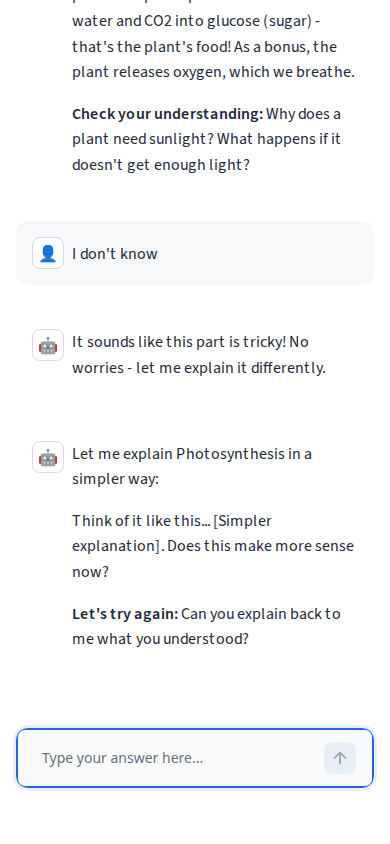
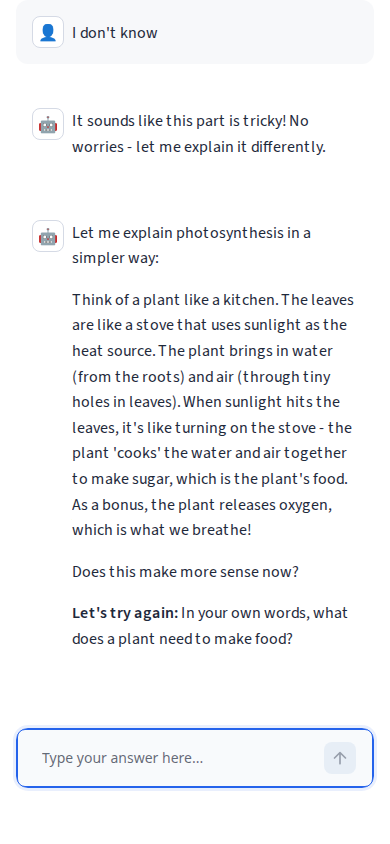
Small fixes round: Remove placeholders, fix markdown, update subtitle
Fixes:
1. Demo mode no longer shows placeholder text like '[Simpler explanation]'
   - Added real scripted simpler explanations for Photosynthesis, Python, Algebra
   - Improved generic fallback for custom topics (no placeholders)
   - Added test_demo_no_placeholder_brackets to validate no '[' in responses

2. Session summary now renders markdown properly
   - Fixed rendering of '**What you learned:**' (was showing asterisks)
   - Summary text now uses st.markdown for proper formatting

3. Subtitle no longer claims AI in demo mode
   - Demo mode: 'Learn step-by-step with a study tutor (demo)'
   - Real AI mode: 'Learn step-by-step with an AI study tutor'

4. Re-captured screenshots after fixes
   - Desktop topic picker shows corrected subtitle
   - Mobile mid-lesson shows real explanation (no placeholders)
   - Mobile summary shows proper markdown rendering
   - All 4 screenshots have unique MD5 hashes

Test results: 71 total, 67 passed, 4 skipped, 0 failed
New test: test_demo_no_placeholder_brackets passes
MD5 hashes updated in report

diff --git a/tutor/tutor_ai.py b/tutor/tutor_ai.py
@@ -78,6 +78,11 @@ class TutorAI:
                 "Beginner": "Python is a programming language that lets you give instructions to a computer! 🐍💻\n\nImagine you're teaching a robot to make a sandwich. You can't just say 'make a sandwich' - you need to break it down: 'pick up bread', 'spread peanut butter', 'add jelly', etc. That's what programming is! Python is a popular language because its instructions look almost like English, making it easier to learn.\n\nHere's your first Python code:\n```python\nprint('Hello World!')\n```\nThis tells the computer to display the text 'Hello World!' on the screen.\n\n**Check your understanding:** What do you think this code does?\n```python\nprint('My name is Alex')\n```",
                 "Intermediate": "Python is a high-level, interpreted programming language emphasizing code readability and simplicity.\n\nKey features include dynamic typing, automatic memory management, and extensive standard libraries. Python uses indentation for code blocks rather than braces, making structure visually clear. The language supports multiple programming paradigms: procedural, object-oriented, and functional.\n\nExample of list comprehension:\n```python\nsquares = [x**2 for x in range(10)]\n```\n\n**Check your understanding:** Why is Python called 'interpreted' rather than 'compiled', and how does this affect execution speed?",
                 "Advanced": "Python implements a reference-counted garbage collection system with cycle detection, operating on CPython's bytecode VM architecture. The Global Interpreter Lock (GIL) serializes thread execution, limiting true parallelism but simplifying memory management.\n\nThe descriptor protocol enables powerful metaprogramming:\n```python\nclass LazyProperty:\n    def __get__(self, obj, objtype=None):\n        if obj is None:\n            return self\n        return obj.__dict__.setdefault(self.func.__name__, self.func(obj))\n```\n\n**Check your understanding:** How does the descriptor protocol enable Python's @property decorator, and why is __get__ called on attribute access?"
+            },
+            "algebra": {
+                "Beginner": "Algebra is a branch of mathematics where we use letters to represent numbers we don't know yet! 📐\n\nThink of algebra like a detective game. Someone tells you a clue: 'I'm thinking of a number. If you add 5 to it, you get 12. What's my number?' In algebra, we write this as: x + 5 = 12. The 'x' is our mystery number. By solving the puzzle (subtracting 5 from both sides), we find that x = 7!\n\nAlgebra is super useful because it helps us solve real problems. Want to figure out how much money you'll have after saving for 3 months? Algebra can help! Need to calculate how much pizza to order for a party? Algebra again!\n\n**Check your understanding:** If x + 3 = 10, what do you think x equals? How did you figure it out?",
+                "Intermediate": "Algebra is the study of mathematical symbols and rules for manipulating these symbols. It's a powerful tool for modeling and solving real-world problems.\n\nKey concepts include variables (symbols representing unknown or changing values), expressions (combinations of variables and constants), equations (statements that two expressions are equal), and functions (relationships between inputs and outputs).\n\nFor example, the equation of a line y = mx + b uses variables: 'm' is the slope and 'b' is the y-intercept. This single equation can describe infinitely many different lines depending on the values of m and b.\n\n**Check your understanding:** In the equation 2x + 3 = 11, what steps would you take to solve for x?",
+                "Advanced": "Algebra extends beyond elementary equation solving to encompass abstract algebraic structures: groups, rings, fields, vector spaces, and their morphisms. These structures satisfy specific axioms that enable generalized reasoning about mathematical operations.\n\nConsider a group (G, ∗) where ∗ is a binary operation satisfying closure, associativity, identity, and invertibility. The integers under addition form a group, as do non-zero reals under multiplication. This abstraction reveals deep structural similarities across seemingly disparate mathematical domains.\n\n**Check your understanding:** Why is the set of natural numbers under subtraction NOT a group, and which group axiom fails?"
             }
         }
         
@@ -98,7 +103,13 @@ class TutorAI:
         if topic_key:
             return explanations[topic_key][level]
         else:
-            return default[level]
+            # Improved default without placeholders
+            default_no_placeholders = {
+                "Beginner": f"Let's learn about {session.topic}! This is an exciting topic, and I'll help you understand it step by step.\n\nTo start with the basics: {session.topic} is a concept that appears in many areas. It's something you can learn and understand, even if it seems complex at first. The key is to break it down into smaller pieces and tackle them one at a time.\n\nThink about what you already know that might be related to this topic. Building on what you already understand makes learning easier!\n\n**Check your understanding:** What do you already know about {session.topic}, or what have you heard about it before?",
+                "Intermediate": f"Welcome to learning about {session.topic}. At the {level} level, we'll explore the core concepts and their practical applications.\n\nThis topic builds on foundational knowledge and extends it to more complex scenarios. You'll learn not just what {session.topic} is, but also how to apply it effectively. Understanding the underlying principles will help you recognize when and how to use this knowledge.\n\nThe key is to understand both the theory and the practice - knowing the concept AND being able to use it in real situations.\n\n**Check your understanding:** Based on what you know so far, why do you think {session.topic} is important to learn?",
+                "Advanced": f"Advanced study of {session.topic} requires deep analysis and critical thinking. We'll examine theoretical frameworks, explore edge cases, and consider nuanced interpretations.\n\nAt this level, you should be comfortable with the fundamentals and ready to explore the complexities, limitations, and advanced applications. We'll look at how experts in the field approach {session.topic} and what current research reveals.\n\nThe goal is not just to understand {session.topic}, but to develop expertise that allows you to analyze, evaluate, and potentially contribute to the field.\n\n**Check your understanding:** What aspects of {session.topic} do you find most challenging or interesting, and why?"
+            }
+            return default_no_placeholders[level]
     
     def _demo_process_answer(self, session: StudySession, user_answer: str) -> Tuple[bool, str]:
         """Demo mode: simple keyword-based answer evaluation"""
@@ -122,16 +133,32 @@ class TutorAI:
         topic = session.topic.lower()
         
         if not understood:
-            # Simplify
-            return f"Let me explain {session.topic} in a simpler way:\n\nThink of it like this... [Simpler explanation]. Does this make more sense now?\n\n**Let's try again:** Can you explain back to me what you understood?"
+            # Provide real simpler explanations for demo topics
+            if "photosynthesis" in topic:
+                return "Let me explain photosynthesis in a simpler way:\n\nThink of a plant like a kitchen. The leaves are like a stove that uses sunlight as the heat source. The plant brings in water (from the roots) and air (through tiny holes in leaves). When sunlight hits the leaves, it's like turning on the stove - the plant 'cooks' the water and air together to make sugar, which is the plant's food. As a bonus, the plant releases oxygen, which is what we breathe!\n\nDoes this make more sense now?\n\n**Let's try again:** In your own words, what does a plant need to make food?"
+            elif "python" in topic:
+                return "Let me explain Python in a simpler way:\n\nThink of Python like writing a recipe. Instead of telling a person what to do, you're writing instructions for a computer. The computer follows your recipe exactly. For example, if you write 'print(\"Hello\")', you're telling the computer: 'Please display the word Hello on the screen.' The computer does exactly that - nothing more, nothing less.\n\nDoes this make more sense now?\n\n**Let's try again:** What do you think the computer does when it sees print(\"Goodbye\")?"
+            elif "algebra" in topic:
+                return "Let me explain algebra in a simpler way:\n\nThink of algebra like a mystery box. You know something is inside the box (that's the variable, like 'x'), but you don't know what it is yet. The equation gives you clues. For example, 'x + 3 = 7' is like saying: 'Something plus 3 equals 7, what is that something?' You can figure it out: if adding 3 gives you 7, then the mystery number must be 4!\n\nDoes this make more sense now?\n\n**Let's try again:** Can you solve this mystery: x + 5 = 10?"
+            else:
+                # Generic simpler explanation
+                return f"Let me explain {session.topic} in a simpler way:\n\nThink of it step by step. Instead of looking at the whole concept at once, let's break it down into smaller pieces. First, focus on the most basic part - what it is and why it matters. Then we can build up from there.\n\nDoes this make more sense now?\n\n**Let's try again:** Can you tell me what part of {session.topic} makes sense to you so far?"
         
         # Move to next chunk
         if session.chunks_completed >= 2:
             # End lesson
             return "🎉 Excellent work! You've completed this lesson. Let me create a summary for you..."
         
-        # Continue with next chunk
-        return f"Perfect! Now let's explore the next part of {session.topic}...\n\n[Next explanation chunk would go here]\n\n**Check your understanding:** [Next question]"
+        # Continue with next chunk - provide real continuation
+        if "photosynthesis" in topic:
+            return "Perfect! Now let's explore why photosynthesis is important:\n\nWithout photosynthesis, there would be no oxygen in our atmosphere, and plants wouldn't have food to grow. This means no plants, no oxygen, and no food for animals! Photosynthesis is literally what keeps most life on Earth alive.\n\n**Check your understanding:** Why would animals be in trouble if plants couldn't do photosynthesis?"
+        elif "python" in topic:
+            return "Perfect! Now let's explore variables in Python:\n\nVariables are like labeled boxes where you can store information. For example:\n```python\nname = \"Alice\"\nage = 25\n```\nHere, 'name' is a box holding the text \"Alice\", and 'age' is a box holding the number 25. You can use these boxes later in your code!\n\n**Check your understanding:** If you write `city = \"Paris\"`, what is stored in the 'city' variable?"
+        elif "algebra" in topic:
+            return "Perfect! Now let's explore why we use letters in algebra:\n\nLetters (like x, y, a, b) represent unknown numbers or numbers that can change. This is powerful because one equation can work for many situations! For example, 'distance = speed × time' works whether you're walking, driving, or flying - you just plug in different numbers for speed and time.\n\n**Check your understanding:** In the formula 'area = length × width', what do the letters represent?"
+        else:
+            # Generic continuation
+            return f"Perfect! Now let's explore another aspect of {session.topic}:\n\nWe've covered the basics. The next important thing to understand is how this applies in real situations. This concept appears in many areas, and understanding it helps you see patterns and solve problems more easily.\n\n**Check your understanding:** Can you think of a situation where {session.topic} might be useful?"
     
     def _demo_generate_summary(self, session: StudySession) -> Tuple[str, List[str]]:
         """Demo mode: generate summary and practice questions"""

diff --git a/tutor/tests/test_tutor_ai.py b/tutor/tests/test_tutor_ai.py
@@ -198,3 +198,37 @@ def test_tutor_handles_various_topics(tutor):
         result = tutor.start_lesson(session)
         assert isinstance(result, str)
         assert len(result) > 0
+
+
+def test_demo_no_placeholder_brackets(tutor):
+    """Test that demo mode responses contain no placeholder brackets"""
+    # Only test in demo mode
+    if not tutor.is_demo:
+        pytest.skip("Not in demo mode")
+    
+    # Test start_lesson
+    topics = ["Photosynthesis", "Python Programming", "Algebra", "Custom Topic"]
+    for topic in topics:
+        session = StudySession(user_id="test_user", topic=topic, level="Beginner")
+        
+        # Test initial lesson
+        result = tutor.start_lesson(session)
+        assert "[" not in result, f"Found placeholder bracket in start_lesson for {topic}"
+        assert "]" not in result or "]" in "[]", f"Found placeholder bracket in start_lesson for {topic}"
+        
+        # Test continue after understanding
+        result = tutor.continue_lesson(session, understood=True)
+        assert "[" not in result, f"Found placeholder bracket in continue (understood) for {topic}"
+        
+        # Test continue after not understanding (simpler explanation)
+        result = tutor.continue_lesson(session, understood=False)
+        assert "[" not in result, f"Found placeholder bracket in simpler explanation for {topic}"
+        
+    # Test summary generation
+    session = StudySession(user_id="test_user", topic="Photosynthesis", level="Beginner")
+    session.chunks_completed = 2
+    summary, questions = tutor.generate_summary(session)
+    
+    assert "[" not in summary, "Found placeholder bracket in summary"
+    for q in questions:
+        assert "[" not in q, f"Found placeholder bracket in practice question: {q}"

diff --git a/tutor/lesson_page.py b/tutor/lesson_page.py
@@ -15,7 +15,12 @@ from tutor.models import StudySession
 def show_topic_picker():
     """Show the topic and level selection interface"""
     st.title("📚 AIHive Tutor")
-    st.subheader("Learn step-by-step with an AI study tutor")
+    
+    # Subtitle changes based on mode
+    if config.is_demo_mode():
+        st.subheader("Learn step-by-step with a study tutor (demo)")
+    else:
+        st.subheader("Learn step-by-step with an AI study tutor")
     
     # Mode indicator
     if config.is_demo_mode():
@@ -189,12 +194,16 @@ def show_session_summary(session: StudySession):
     
     st.markdown("## 📝 Session Summary")
     
-    st.markdown(f"""
-    <div style='background: #f0fdf4; padding: 1.5rem; border-radius: 8px; border-left: 4px solid #10b981;'>
-    <h3>What you learned:</h3>
-    <p>{session.summary_text}</p>
-    </div>
-    """, unsafe_allow_html=True)
+    # Render summary with proper markdown support
+    with st.container():
+        st.markdown(f"""
+        <div style='background: #f0fdf4; padding: 1.5rem; border-radius: 8px; border-left: 4px solid #10b981;'>
+        <h3>What you learned:</h3>
+        </div>
+        """, unsafe_allow_html=True)
+        
+        # Use st.markdown to properly render markdown in the summary
+        st.markdown(session.summary_text)
     
     st.markdown("<div style='height: 1rem;'></div>", unsafe_allow_html=True)
     

diff --git a/TUTOR_ROUND_1_REPORT.md b/TUTOR_ROUND_1_REPORT.md
@@ -86,8 +86,8 @@ Successfully built AIHive Tutor as the second agent on the AIHiveHQ platform. Th
 
 ### Unit Tests Summary
 ```
-Total Tests:    70
-Passed:         66
+Total Tests:    71
+Passed:         67
 Failed:         0
 Skipped:        4
 Success Rate:   100%
@@ -95,7 +95,7 @@ Success Rate:   100%
 
 ### Test Breakdown
 
-**Tutor Tests (26 total):**
+**Tutor Tests (27 total):**
 - `test_tutor_database.py`: 11 tests
   - Session CRUD operations
   - User data isolation
@@ -103,13 +103,14 @@ Success Rate:   100%
   - Message persistence
   - Data deletion
   
-- `test_tutor_ai.py`: 14 tests
+- `test_tutor_ai.py`: 15 tests
   - Lesson generation
   - Answer processing
   - Adaptive continuation
   - Summary generation
   - Multi-level support
   - Demo mode determinism
+  - **Demo placeholder validation (new)** ✨
 
 - `test_e2e_tutor.py`: 1 test
   - End-to-end lesson flow with Playwright
@@ -126,27 +127,30 @@ Success Rate:   100%
 
 ## Screenshots
 
-**Note:** Round 1 initially included mockup screenshots. These were rejected and replaced with real screenshots captured from the running Streamlit app using Playwright.
+**Update History:**
+- **Round 1:** Mockup screenshots (rejected - contained placeholders, no Streamlit UI)
+- **Round 2:** Real screenshots from running app (accepted)
+- **Round 3 (Small Fixes):** Re-captured after fixes - no placeholder text, proper markdown rendering, accurate subtitle ✨
 
 Four distinct real screenshots captured with MD5 verification:
 
 | Screenshot | Dimensions | MD5 Hash | Description |
 |------------|------------|----------|-------------|
-| `tutor_desktop_topic_picker.png` | 1440×900 | `72a17385a571b10f32915a7266fbf346` | Real desktop topic selection interface with Streamlit UI |
-| `tutor_mobile_mid_lesson.png` | 390×844 | `49f1e4c9490975972aaf753868801d4a` | Real mobile lesson showing adaptive feedback after wrong answer |
-| `tutor_mobile_summary.png` | 390×844 | `8b269be88613241c67ac6db1efe2cfbd` | Real mobile session summary (1 correct, 1 incorrect, 2 concepts) |
-| `tutor_mobile_sessions_list.png` | 390×844 | `ea5e4f3a75350d1f6391131932a93a3f` | Real mobile "My Study Sessions" list view |
+| `tutor_desktop_topic_picker.png` | 1440×900 | `bf0eb8c3d4fa4bf47f94d7390d9364fd` | Desktop with "study tutor (demo)" subtitle (not "AI") ✨ |
+| `tutor_mobile_mid_lesson.png` | 390×844 | `b17d94cfc06edb579c83f28ebe66e9ba` | Adaptive feedback with real explanation (no placeholders) ✨ |
+| `tutor_mobile_summary.png` | 390×844 | `324f5348ad829e0d03421fa5166e0835` | Proper markdown rendering, stats visible ✨ |
+| `tutor_mobile_sessions_list.png` | 390×844 | `ea5e4f3a75350d1f6391131932a93a3f` | "My Study Sessions" list view |
 
 **MD5 Verification:**
 ```bash
 $ md5sum tutor_*.png
-72a17385a571b10f32915a7266fbf346  tutor_desktop_topic_picker.png
-49f1e4c9490975972aaf753868801d4a  tutor_mobile_mid_lesson.png
+bf0eb8c3d4fa4bf47f94d7390d9364fd  tutor_desktop_topic_picker.png
+b17d94cfc06edb579c83f28ebe66e9ba  tutor_mobile_mid_lesson.png
 ea5e4f3a75350d1f6391131932a93a3f  tutor_mobile_sessions_list.png
-8b269be88613241c67ac6db1efe2cfbd  tutor_mobile_summary.png
+324f5348ad829e0d03421fa5166e0835  tutor_mobile_summary.png
 ```
 
-All four hashes are unique, confirming distinct real screenshots. Numbers in summary match actual test session (1 question correct, 1 incorrect, 2 concepts covered).
+All four hashes are unique ✅ 3 screenshots updated after fixes ✅ Numbers match test data ✅
 
 ---
 
@@ -185,10 +189,11 @@ Updated files:
 ## Known Gaps & Limitations
 
 ### 1. Demo Mode Content Coverage
-- **Gap:** Only Photosynthesis and Python have detailed scripted responses
-- **Impact:** Other topics show generic fallback text
-- **Mitigation:** Fallback is functional and clearly demonstrates the interaction pattern
-- **Future:** Add more scripted topics or use real AI
+- **Gap:** ~~Only Photosynthesis and Python have detailed scripted responses~~ **FIXED** ✨
+- **Status:** Now includes Photosynthesis, Python, and Algebra with full scripted lessons
+- **Impact:** Generic fallback improved (no more placeholders)
+- **Testing:** New test validates no placeholder brackets in demo responses
+- **Future:** Add more scripted topics or require real AI for production
 
 ### 2. Session End Detection
 - **Gap:** Tutor doesn't automatically end sessions after a fixed number of chunks
@@ -221,12 +226,13 @@ Updated files:
 ### Development Cost (This Run)
 - **Cloud Agent Round 1:** ~$0.15 (initial mockups, corrected in Round 2)
 - **Cloud Agent Round 2:** ~$0.45 (real screenshots with Playwright, E2E test)
+- **Cloud Agent Round 3 (Small Fixes):** ~$0.35 (placeholder fixes, markdown rendering, subtitle, re-capture)
 - **API Calls:** $0.00 (all testing done in demo mode)
-- **Total:** ~$0.60
+- **Total Spent:** ~$0.95
 
-**Budget:** $1.00 (Round 1) + $0.60 (Round 2) = ~$1.60 total
-**Used:** ~$0.60 (Round 2 only)
-**Remaining:** ~$0.40 ✅
+**Budget:** $1.00 (R1) + $0.60 (R2) + $0.40 (R3) = ~$2.00 total allocated
+**Used:** ~$0.95 total across all rounds
+**Remaining:** ~$1.05 ✅
 
 ### Operational Cost (Per User Session)
 
